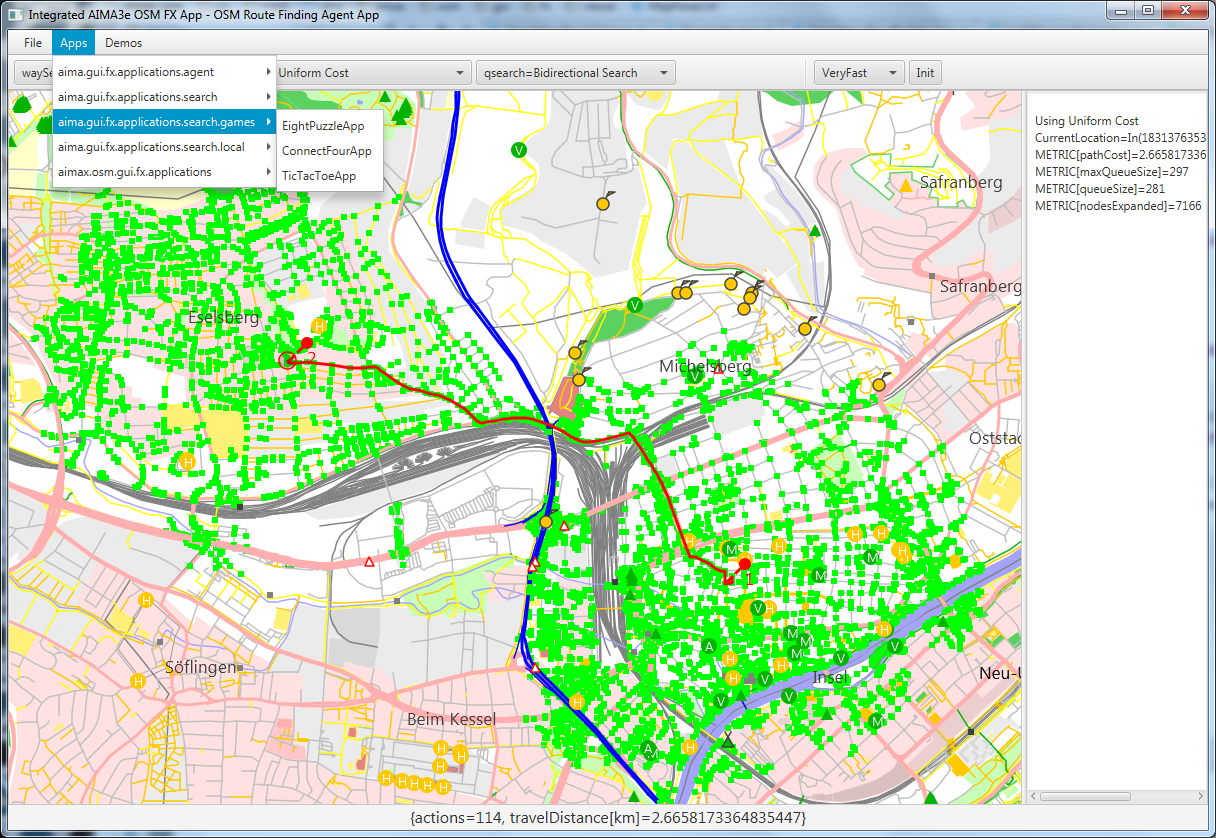
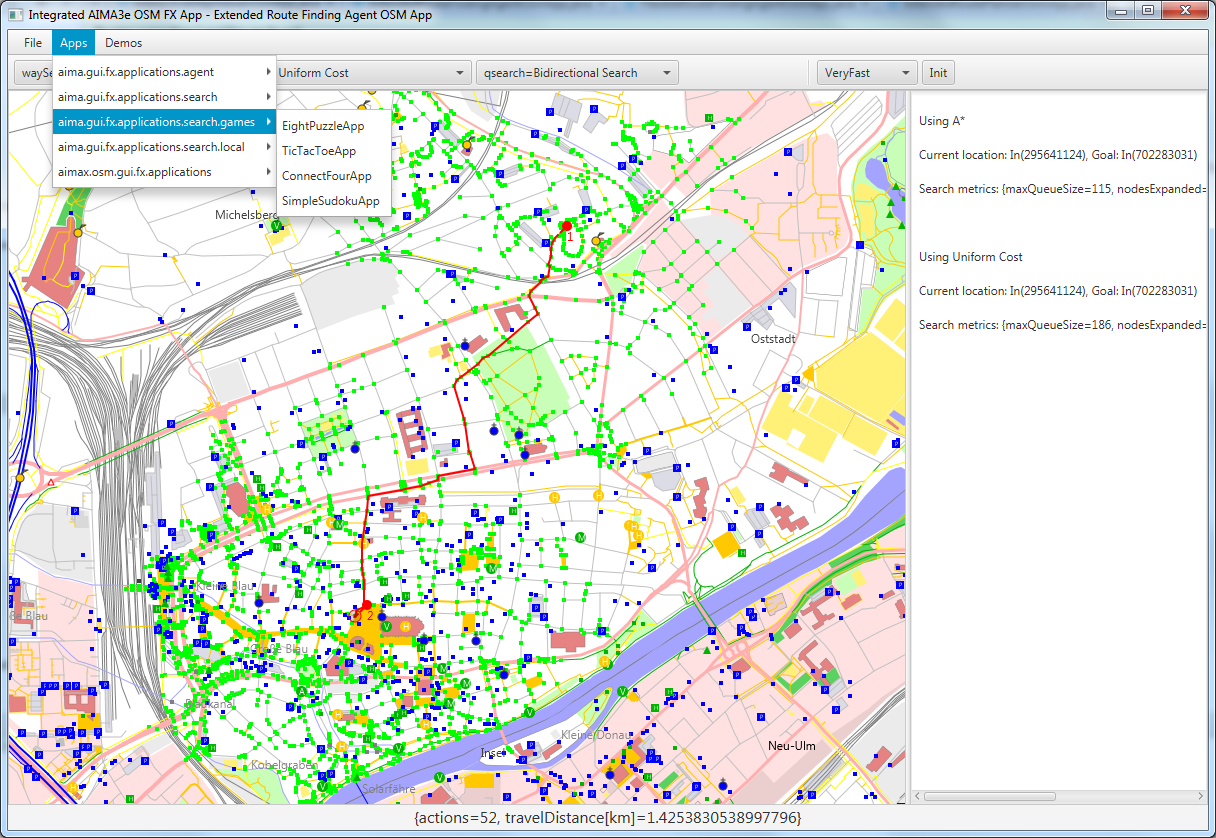
Some application class names changed.

diff --git a/aimax-osm/src/main/java/aimax/osm/gui/fx/applications/ExtendedRouteFindingAgentOsmApp.java b/aimax-osm/src/main/java/aimax/osm/gui/fx/applications/ExtendedRouteFindingAgentOsmApp.java
@@ -26,14 +26,14 @@ import java.util.function.ToDoubleFunction;
 /**
  * Integrable application which demonstrates how different kinds of search
  * algorithms perform in a route finding scenario based on a real OSM map. This
- * implementation extends <code>OsmAgentBaseApp</code> by two aspects: Map
+ * implementation extends {@link RouteFindingAgentOsmApp} by two aspects: Map
  * locations corresponding to expanded nodes are highlighted in green. The user
  * can define several goals by placing more then two markers on the map.
  *
  * @author Ruediger Lunde
  *
  */
-public class OsmRouteFindingAgentApp extends OsmAgentBaseApp {
+public class ExtendedRouteFindingAgentOsmApp extends RouteFindingAgentOsmApp {
 
 	public static void main(String[] args) {
 		launch(args);
@@ -47,7 +47,7 @@ public class OsmRouteFindingAgentApp extends OsmAgentBaseApp {
 
 	@Override
 	public String getTitle() {
-		return "OSM Route Finding Agent App";
+		return "Extended Route Finding Agent OSM App";
 	}
 
 	/**
@@ -99,8 +99,8 @@ public class OsmRouteFindingAgentApp extends OsmAgentBaseApp {
 	// helper classes...
 
 	/**
-	 * Variant of the <code>DefaultMapEntityRenderer</code> which highlights way
-	 * nodes mentioned in {@link SearchDemoOsmAgentApp#visitedStates}.
+	 * Variant of the {@link DefaultEntityRenderer} which highlights way
+	 * nodes mentioned in {@link ExtendedRouteFindingAgentOsmApp#visitedStates}.
 	 */
 	private static class SDMapEntityRenderer extends DefaultEntityRenderer {
 		DefaultEntityViewInfo highlightProp = new MapStyleFactory().createPoiInfo(0, 0, 5, UColor.GREEN,

diff --git a/aimax-osm/src/main/java/aimax/osm/gui/fx/IntegratedAimaOsmFxApp.java b/aimax-osm/src/main/java/aimax/osm/gui/fx/IntegratedAimaOsmFxApp.java
@@ -2,10 +2,10 @@ package aimax.osm.gui.fx;
 
 import aima.gui.fx.applications.IntegratedAimaFxApp;
 import aima.gui.fx.framework.IntegratedAppBuilder;
-import aimax.osm.gui.fx.applications.OsmOnlineAgentApp;
-import aimax.osm.gui.fx.applications.OsmRouteFindingAgentApp;
-import aimax.osm.gui.fx.applications.OsmRoutePlannerApp;
-import aimax.osm.gui.fx.applications.OsmAgentBaseApp;
+import aimax.osm.gui.fx.applications.OnlineAgentOsmApp;
+import aimax.osm.gui.fx.applications.ExtendedRouteFindingAgentOsmApp;
+import aimax.osm.gui.fx.applications.RoutePlannerOsmApp;
+import aimax.osm.gui.fx.applications.RouteFindingAgentOsmApp;
 import javafx.application.Application;
 import javafx.stage.Stage;
 
@@ -35,9 +35,9 @@ public class IntegratedAimaOsmFxApp extends Application {
 	public static void defineContent(IntegratedAppBuilder builder) {
 		IntegratedAimaFxApp.defineContent(builder);
 
-		builder.registerApp(OsmRoutePlannerApp.class);
-		builder.registerApp(OsmAgentBaseApp.class);
-		builder.registerApp(OsmRouteFindingAgentApp.class);
-		builder.registerApp(OsmOnlineAgentApp.class);
+		builder.registerApp(RoutePlannerOsmApp.class);
+		builder.registerApp(RouteFindingAgentOsmApp.class);
+		builder.registerApp(ExtendedRouteFindingAgentOsmApp.class);
+		builder.registerApp(OnlineAgentOsmApp.class);
 	}
 }

diff --git a/aima-core/src/main/java/aima/core/environment/map/MapAgent.java b/aima-core/src/main/java/aima/core/environment/map/MapAgent.java
@@ -97,8 +97,8 @@ public class MapAgent extends ProblemSolvingAgent<String, MoveToAction> {
                 ((Informed<String, MoveToAction>) search).setHeuristicFunction(hFnFactory.apply(goal));
 
             if (notifier != null)
-                notifier.notifyViews("CurrentLocation=In(" + state.getAttribute(DynAttributeNames.AGENT_LOCATION)
-                        + "), Goal=In(" + goal + ")");
+                notifier.notifyViews("Current location: In(" + state.getAttribute(DynAttributeNames.AGENT_LOCATION)
+                        + "), Goal: In(" + goal + ")");
         }
         return goal != null ? Optional.of(goal) : Optional.empty();
     }
@@ -117,11 +117,7 @@ public class MapAgent extends ProblemSolvingAgent<String, MoveToAction> {
     }
 
     protected void notifyViewOfMetrics() {
-        if (notifier != null) {
-            Set<String> keys = search.getMetrics().keySet();
-            for (String key : keys) {
-                notifier.notifyViews("METRIC[" + key + "]=" + search.getMetrics().get(key));
-            }
-        }
+        if (notifier != null)
+            notifier.notifyViews("Search metrics: " + search.getMetrics());
     }
 }

diff --git a/aimax-osm/src/main/java/aimax/osm/gui/fx/applications/SimpleMapViewerOsmApp.java b/aimax-osm/src/main/java/aimax/osm/gui/fx/applications/SimpleMapViewerOsmApp.java
@@ -19,7 +19,7 @@ import java.util.Locale;
  *
  * @author Ruediger Lunde
  */
-public class SimpleOsmViewerApp extends Application {
+public class SimpleMapViewerOsmApp extends Application {
 
     public static void main(String[] args) {
         launch(args);
@@ -34,7 +34,7 @@ public class SimpleOsmViewerApp extends Application {
         Locale.setDefault(Locale.US);
 
         UnifiedMapDrawer<Canvas> mapDrawer = new UnifiedMapDrawer<>(new FXImageBuilder());
-        mapDrawer.loadMap(DataResource.getULMFileResource());
+        mapDrawer.loadMap(DataResource.getUlmFileResource());
 
         Canvas canvas = new Canvas(600, 400);
         mapDrawer.drawMap(canvas, true);
@@ -42,7 +42,7 @@ public class SimpleOsmViewerApp extends Application {
         root.getChildren().add(canvas);
         Scene scene = new Scene(root, Color.BLACK);
 
-        primaryStage.setTitle("Simple Osm Viewer App");
+        primaryStage.setTitle("Simple Map Viewer OSM App");
         primaryStage.setScene(scene);
         primaryStage.show();
     }

diff --git a/aimax-osm/src/main/java/aimax/osm/gui/fx/applications/InteractiveMapViewerOsmApp.java b/aimax-osm/src/main/java/aimax/osm/gui/fx/applications/InteractiveMapViewerOsmApp.java
@@ -17,7 +17,7 @@ import java.util.Locale;
  *
  * @author Ruediger Lunde
  */
-public class OsmViewerApp extends Application {
+public class InteractiveMapViewerOsmApp extends Application {
     public static void main(String[] args) {
         launch(args);
     }
@@ -32,13 +32,13 @@ public class OsmViewerApp extends Application {
 
         StackPane mapPane = new StackPane();
         MapPaneCtrl mapPaneCtrl = new MapPaneCtrl(mapPane);
-        mapPaneCtrl.loadMap(DataResource.getULMFileResource());
+        mapPaneCtrl.loadMap(DataResource.getUlmFileResource());
 
         BorderPane root = new BorderPane();
         root.setCenter(mapPane);
         Scene scene = new Scene(root, 800, 600);
 
-        primaryStage.setTitle("Osm Viewer App");
+        primaryStage.setTitle("Interactive Map Viewer OSM App");
         primaryStage.setScene(scene);
         primaryStage.show();
     }

diff --git a/aimax-osm/src/main/java/aimax/osm/gui/fx/applications/RouteFindingAgentOsmApp.java b/aimax-osm/src/main/java/aimax/osm/gui/fx/applications/RouteFindingAgentOsmApp.java
@@ -41,7 +41,7 @@ import java.util.function.ToDoubleFunction;
  * @author Ruediger Lunde
  *
  */
-public class OsmAgentBaseApp extends IntegrableApplication {
+public class RouteFindingAgentOsmApp extends IntegrableApplication {
 
 	public static void main(String[] args) {
 		launch(args);
@@ -62,12 +62,12 @@ public class OsmAgentBaseApp extends IntegrableApplication {
 
 	@Override
 	public String getTitle() {
-		return "OSM Agent Base App";
+		return "Route Finding Agent OSM App";
 	}
 
 	/** Loads a map of the city of Ulm, Germany. Override to change the map. */
 	protected void loadMap() {
-		mapPaneCtrl.loadMap(DataResource.getULMFileResource());
+		mapPaneCtrl.loadMap(DataResource.getUlmFileResource());
 	}
 
 	/** Defines the parameters to be shown in the simulation pane tool bar. */

diff --git a/aimax-osm/src/main/java/aimax/osm/gui/fx/applications/OnlineAgentOsmApp.java b/aimax-osm/src/main/java/aimax/osm/gui/fx/applications/OnlineAgentOsmApp.java
@@ -41,7 +41,7 @@ import java.util.function.ToDoubleFunction;
  * @author Ruediger Lunde
  *
  */
-public class OsmOnlineAgentApp extends IntegrableApplication {
+public class OnlineAgentOsmApp extends IntegrableApplication {
 
 	public static String PARAM_STRATEGY = "strategy";
 
@@ -61,12 +61,12 @@ public class OsmOnlineAgentApp extends IntegrableApplication {
 
 	@Override
 	public String getTitle() {
-		return "OSM Online Agent App";
+		return "Online Agent OSM App";
 	}
 	
 	/** Loads a map of the city of Ulm, Germany. Override to change the map. */
 	protected void loadMap() {
-		mapPaneCtrl.loadMap(DataResource.getULMFileResource());
+		mapPaneCtrl.loadMap(DataResource.getUlmFileResource());
 	}
 	
 	protected List<Parameter> createParameters() {

diff --git a/aimax-osm/src/main/java/aimax/osm/gui/fx/applications/RoutePlannerOsmApp.java b/aimax-osm/src/main/java/aimax/osm/gui/fx/applications/RoutePlannerOsmApp.java
@@ -23,7 +23,7 @@ import java.util.List;
  *
  * @author Ruediger Lunde
  */
-public class OsmRoutePlannerApp extends IntegrableApplication {
+public class RoutePlannerOsmApp extends IntegrableApplication {
 
     public static void main(String[] args) {
         launch(args);
@@ -69,7 +69,7 @@ public class OsmRoutePlannerApp extends IntegrableApplication {
         StackPane mapPane = new StackPane();
         mapPaneCtrl = new MapPaneCtrl(mapPane);
         mapPaneCtrl.getMap().addMapDataEventListener(ev -> updateEnabledState());
-        mapPaneCtrl.loadMap(DataResource.getULMFileResource());
+        mapPaneCtrl.loadMap(DataResource.getUlmFileResource());
 
         root.setCenter(mapPane);
 

diff --git a/aimax-osm/src/main/java/aimax/osm/gui/swing/applications/RoutePlannerApp.java b/aimax-osm/src/main/java/aimax/osm/gui/swing/applications/RoutePlannerApp.java
@@ -78,7 +78,7 @@ public class RoutePlannerApp implements ActionListener {
 	 */
 	public MapViewFrame constructApplicationFrame() {
 		if (frame.getMap().isEmpty())
-			frame.readMap(DataResource.getULMFileResource());
+			frame.readMap(DataResource.getUlmFileResource());
 		return frame;
 	}
 
@@ -123,7 +123,7 @@ public class RoutePlannerApp implements ActionListener {
 
 		Locale.setDefault(Locale.US);
 		RoutePlannerApp demo = new RoutePlannerApp(args);
-		demo.getFrame().readMap(DataResource.getULMFileResource());
+		demo.getFrame().readMap(DataResource.getUlmFileResource());
 		demo.showFrame();
 	}
 }

diff --git a/aimax-osm/src/main/java/aimax/osm/gui/swing/applications/MiniNaviApp.java b/aimax-osm/src/main/java/aimax/osm/gui/swing/applications/MiniNaviApp.java
@@ -309,7 +309,7 @@ public class MiniNaviApp implements ActionListener {
 		// System.setProperty(MiniNaviApp.MAP_CLASS_PROPERTY,
 		// "rl.osm.data.perst.PerstMap");
 		MiniNaviApp demo = new MiniNaviApp(args);
-		demo.getFrame().readMap(DataResource.getULMFileResource());
+		demo.getFrame().readMap(DataResource.getUlmFileResource());
 		// demo.getFrame().readMap(new File("maps/ulm.osm"));
 		demo.showFrame();
 	}

diff --git a/aimax-osm/src/main/java/aimax/osm/gui/swing/applications/SearchDemoOsmAgentApp.java b/aimax-osm/src/main/java/aimax/osm/gui/swing/applications/SearchDemoOsmAgentApp.java
@@ -170,7 +170,7 @@ public class SearchDemoOsmAgentApp extends OsmAgentApp {
 		// Logger.getLogger("").getHandlers()[0].setLevel(Level.FINE);
 
 		SearchDemoOsmAgentApp demo = new SearchDemoOsmAgentApp();
-		demo.readMap(DataResource.getULMFileResource());
+		demo.readMap(DataResource.getUlmFileResource());
 		demo.startApplication();
 	}
 }

diff --git a/aimax-osm/src/main/java/aimax/osm/gui/swing/applications/OsmViewerApp.java b/aimax-osm/src/main/java/aimax/osm/gui/swing/applications/OsmViewerApp.java
@@ -24,7 +24,7 @@ public class OsmViewerApp {
 		
 		Locale.setDefault(Locale.US);
 		MapViewFrame frame = new MapViewFrame(args);
-		frame.readMap(DataResource.getULMFileResource());
+		frame.readMap(DataResource.getUlmFileResource());
 		frame.setTitle("OSM Viewer");
 		frame.setSize(800, 600);
 		frame.setVisible(true);
